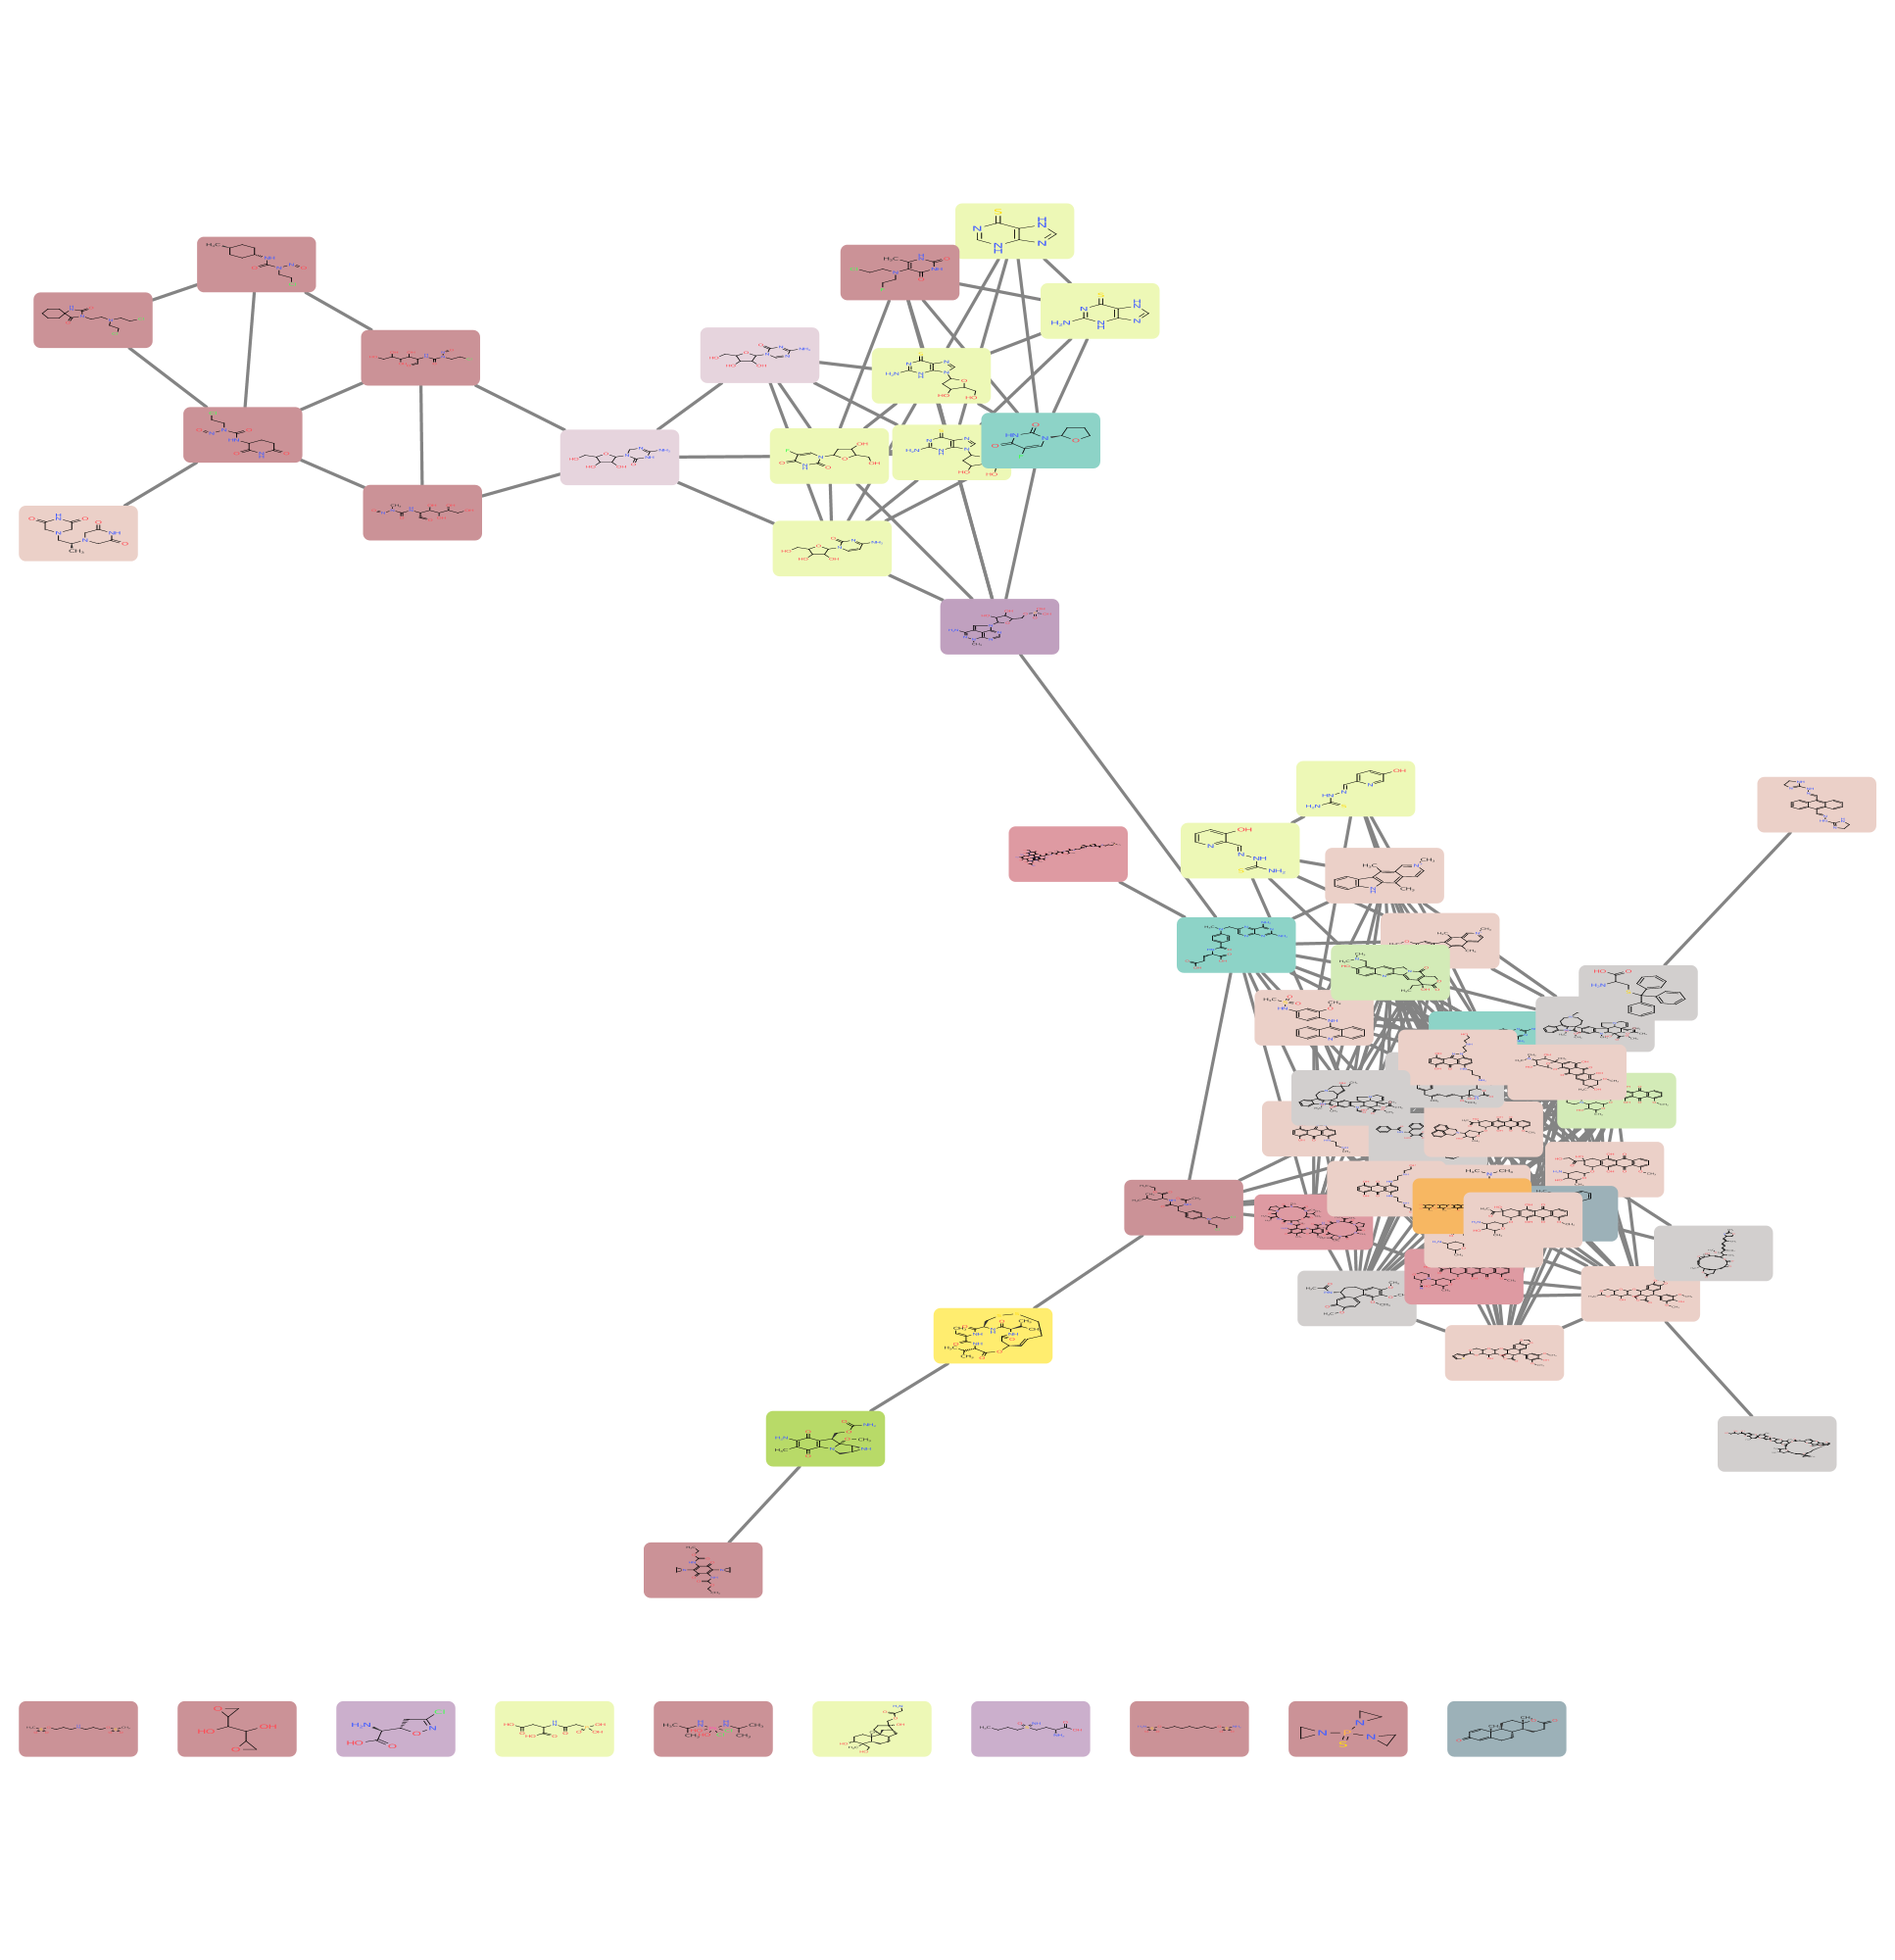
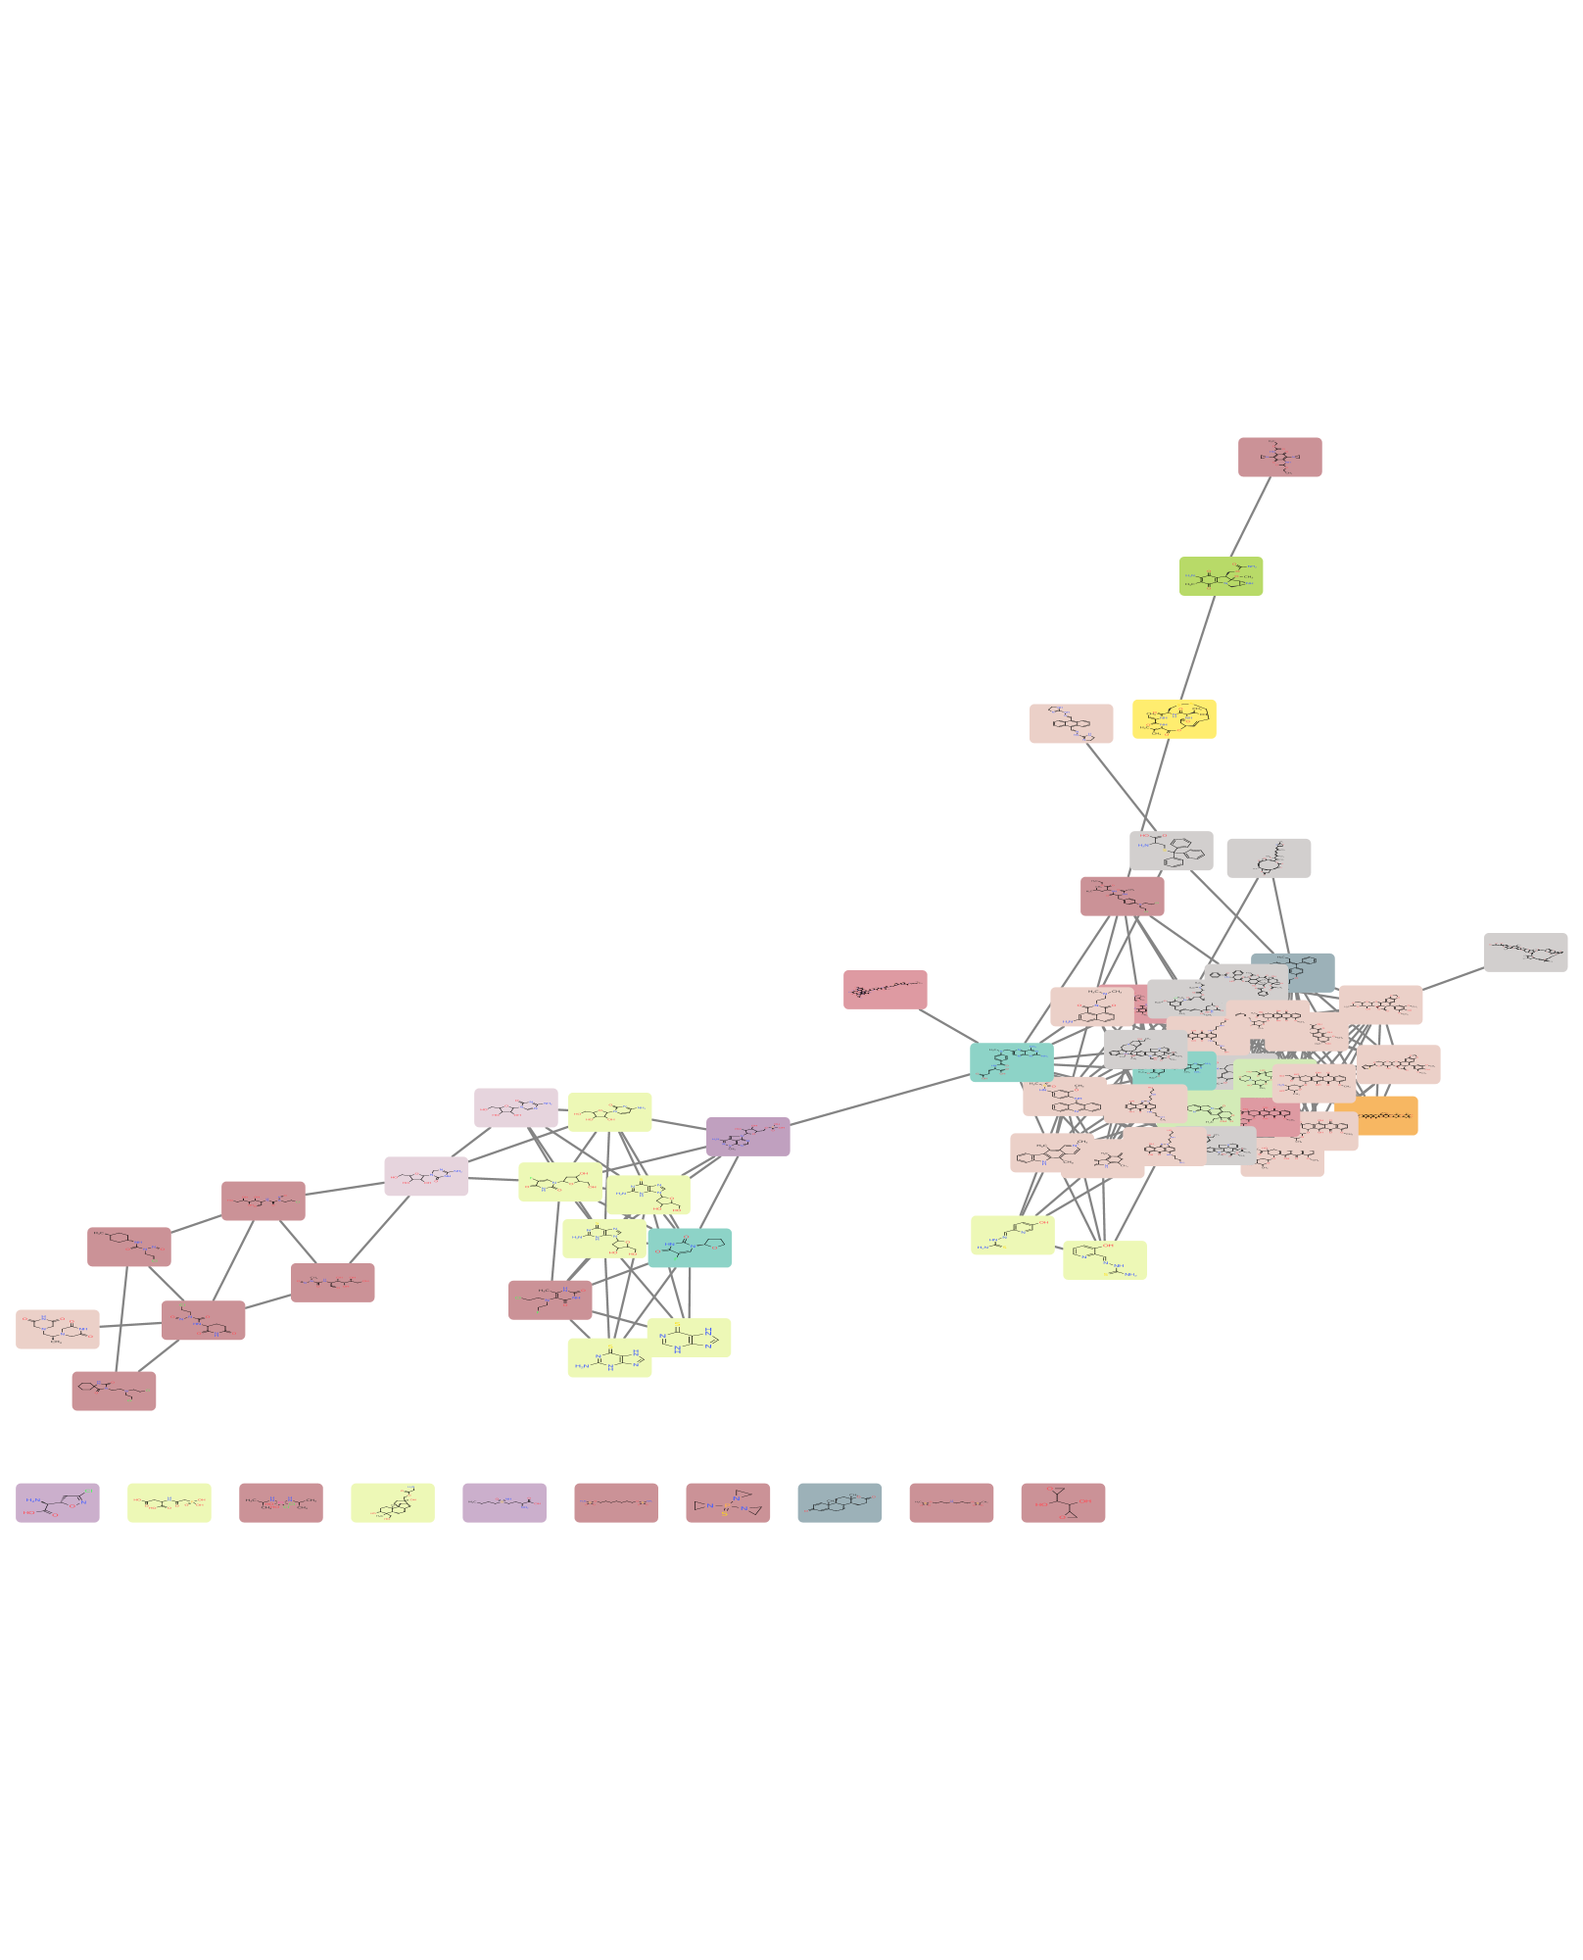
Edited the chemviz vignette to have names instead of numbers on the nodes.

diff --git a/chemviz_vignette.md b/chemviz_vignette.md
@@ -3,18 +3,20 @@ Julia Gustavsen
 August 16, 2016  
 # Introduction
 
-# Required programs: 
+Scientists can have information about chemical compounds and then want a simple way to visualize the chemical structure and also the to understand the chemical similarity of compounds (Tanimoto similarity). This can be done in Cytoscape using the Chemviz plugin
+
+In this vignette we will use the R package rcellminer to generate some data that we will use to look a some drug compounds. Then, in Cytoscape, we will then see how these drugs are chemically related, look at the 2-dimensional structures of these compounds and then colour the compounds by their mechanism of action to see if it is related to their similarity. 
+
+# Required materials: 
 
 - Cytoscape (www.cytoscape.org)
 - Chemviz - plugin for Cytoscape (http://www.cgl.ucsf.edu/cytoscape/chemViz2/index.shtml)
-- Rpackages: RCy3, httr, JSONIO, rcellminer
+- Rpackages: RCy3, httr, JSONIO, rcellminer, RColorBrewer
 
-# Load up the packages
+# Load the packages
 
 ```r
 library(RCy3)
-library(httr)
-library(RJSONIO)
 library(rcellminer)
 library(RColorBrewer)
 source("./functions_to_add_to_RCy3/working_with_namespaces.R")
@@ -28,9 +30,6 @@ df <- getFeatureAnnot(rcellminerData::drugData)[["drug"]]
 ## smiles strings
 ## moa mechanism of action
 
-## could take drugs with stuff in the MOA colum
-x <- df[sample(nrow(df), 100), c("NSC", "NAME", "FDA_STATUS", "SMILES", "MOA")]
-
 moaToCompounds <- getMoaToCompounds()
 Moa_names <- names(moaToCompounds)
 
@@ -40,13 +39,24 @@ df_knownMoaDrugs <- subset(df, MOA %in% Moa_names)
 df_with_knownMoaDrugs <- subset(df_knownMoaDrugs, TOTAL_EXPS > 10)
 ```
 
+For display purposes we will chop off long names after 12 characters. 
+
+
+```r
+long_names <- df_with_knownMoaDrugs$NAME[nchar(df_with_knownMoaDrugs$NAME) > 12] 
+chopped_long_names <- gsub("^(.{12})(.*)$", "\\1", long_names)
+df_with_knownMoaDrugs$NAME[nchar(df_with_knownMoaDrugs$NAME) > 12 ] <- chopped_long_names
+```
+
+
 # Set up connection between R and Cytoscape 
 
 ```r
 # first, delete existing windows to save memory:
 deleteAllWindows(CytoscapeConnection())
 cy <- CytoscapeConnection()
-getCommandsWithinNamespace(cy, "chemviz")
+getCommandsWithinNamespace(cy,
+                           "chemviz")
 ```
 
 ```
@@ -62,11 +72,11 @@ getCommandsWithinNamespace(cy, "chemviz")
 # Format dataframe from RCellMiner to format that can be sent to cytoscape
 
 ```r
-g <- new('graphNEL',
-         nodes = df_with_knownMoaDrugs$NSC,
-         edgemode = 'undirected')
+g <- new("graphNEL",
+         nodes = df_with_knownMoaDrugs$NAME,
+         edgemode = "undirected")
 
-cw <- CytoscapeWindow('vignette_for_chemviz',
+cw <- CytoscapeWindow("vignette_for_chemviz",
                       graph = g,
                       overwrite = TRUE)
 ```
@@ -82,7 +92,7 @@ displayGraph(cw)
 
 ```r
 layoutNetwork(cw,
-              layout.name = 'grid')
+              layout.name = "grid")
 showGraphicsDetails(cw, new.value)
 ```
 
@@ -94,45 +104,45 @@ showGraphicsDetails(cw, new.value)
 ```r
 g <- cw@graph   
 g <- initNodeAttribute(graph = g,
-                       'SMILES',
-                       'char',
+                       "SMILES",
+                       "char",
                        "none")
-nodeData(g, nodes(g), 'SMILES') <- df_with_knownMoaDrugs$SMILES
+nodeData(g, nodes(g), "SMILES") <- df_with_knownMoaDrugs$SMILES
 
 g <- initNodeAttribute(graph = g,
-                       'NAME_from_df',
-                       'char',
+                       "NSC_from_df",
+                       "char",
                        "none")
-nodeData(g, nodes(g), 'NAME_from_df') <- df_with_knownMoaDrugs$NAME
+nodeData(g, nodes(g), "NSC_from_df") <- df_with_knownMoaDrugs$NSC
 
 g <- initNodeAttribute(graph = g,
-                       'MOA',
-                       'char',
+                       "MOA",
+                       "char",
                        "none")
-nodeData(g, nodes(g), 'MOA') <- df_with_knownMoaDrugs$MOA
+nodeData(g, nodes(g), "MOA") <- df_with_knownMoaDrugs$MOA
 ```
 
 
 ```r
 cw <- setGraph(cw,
                g)
-displayGraph(cw)    # cw's graph is sent to Cytoscape
+displayGraph(cw) # cw's graph is sent to Cytoscape
 ```
 
 ```
 ## [1] "label"
 ## [1] "SMILES"
-## [1] "NAME_from_df"
+## [1] "NSC_from_df"
 ## [1] "MOA"
 ```
 
-Network successfully sent to Cytoscape. The node attributes have also been sent. 
-<img src="./nodes_for_chemviz.png" width="1934" />
 
+Network successfully sent to Cytoscape. The node attributes have also been sent. 
+<img src="./nodes_for_chemviz.png" width="1616" />
 
 # Create similarity network
 
-Next based on the chemical properties of each node (which are associated using the SMILES strings (Simplified Molecular Input Line Entry System which are line reprensentations of chemical structures) we will use chemviz to calculate the similarity of each drug based on its chemical properties (using Tanimoto similarity which is a distance-based measure of chemical similarity). 
+Next based on the chemical properties of each node (which are associated using the SMILES strings (Simplified Molecular Input Line Entry System which are line representations of chemical structures) we will use chemviz to calculate the similarity of each drug based on its chemical properties (using Tanimoto similarity which is a distance-based measure of chemical similarity). 
 
 To begin let's look at some of the commands available to use in chemviz:
 
@@ -179,23 +189,7 @@ chemviz_cw <- setCommandProperties(cw,
 ## [1] "Cytoscape window vignette_for_chemviz copy successfully connected to R session."
 ```
 
-```r
-# request.uri <- paste(cw@uri,
-#                      pluginVersion(cw),
-#                      "commands/chemviz",
-#                      as.character(command.name),
-#                      sep = "/")
-# 
-# request.res <- GET(url = request.uri,
-#                     query = properties.list,
-#                     verbose())
-# request.res$url
-# http_status(request.res)
-# request.res$status_code
-```
-
-<img src="./chemviz_similarity_net.png" width="1934" />
-
+<img src="./chemviz_similarity_net.png" width="1616" />
 
 We currently just have the network in the grid format, but now with edges connecting the nodes we can do a layout that can help us visualize the connections.
 
@@ -224,7 +218,7 @@ connectToNewestCyWindow <- function(obj,
   
   ## to get edges request.res$elements$edges
   newest_CyWindow <- existing.CytoscapeWindow(net.name,
-                                     copy.graph.from.cytoscape.to.R = copyToR) ## having problems with edges for now!! so will set to false
+                                     copy.graph.from.cytoscape.to.R = copyToR) 
   return(newest_CyWindow)
 }
 
@@ -238,7 +232,7 @@ layoutNetwork(new_cw, "force-directed")
 ```
 
 
-<img src="./chemviz_similarity_net_layout_fd.png" width="1934" />
+<img src="./chemviz_similarity_net_layout_fd.png" width="1616" />
 
 # Add 2D chemical structures to nodes
 
@@ -283,12 +277,12 @@ setCommandProperties(new_cw,
 
 Now we have all of the chemical structures displayed on the nodes of our network. 
 
-<img src="./chemviz_similarity_net_node_structures.png" width="1934" />
+<img src="./chemviz_similarity_net_node_structures.png" width="1616" />
 
 
 # Colour nodes by mechanism of action (MOA)
 
-The nodes that we are examining have mechanisms of action (moa) associated with them. We can then colour these nodes by their MOA. 
+The nodes that we are examining have mechanisms of action (MOA) associated with them. We can then colour these nodes by their MOA. 
 
 
 ```r
@@ -303,7 +297,7 @@ We have 14 different MOA classes and have used RColorBrewer to generate differen
 
 ```r
 setNodeColorRule(new_cw,
-                 'MOA',
+                 "MOA",
                  MOA_classes,
                  colours_for_MOA_classes,
                  "lookup", 
@@ -316,14 +310,11 @@ setNodeColorRule(new_cw,
 
 ```r
 ## node font looks ugly, let's turn it off for now
-
 setDefaultNodeFontSize(new_cw,
                        0)
 ```
 
-We have coloured the nodes nicely, but we do not know which ones are associated with which classes. To know more about this we will print out the legend from Cytoscape. At the moment there is no automated way to do this so we need to go into Cytoscape, click on the "Style" tab and then click on the little arrow (that has a mouseover text of "Options"). Once the menu opens there you will find a dialogue that lets you export a legend (in gif,svg, or pdf formats). Once exported we will look at the legend beside our new coloured network. 
-
-
+We have coloured the nodes nicely, but we do not know which ones are associated with which classes. To know more about this we will print out the legend from Cytoscape. At the moment there is no automated way to do this so we need to go into Cytoscape, click on the "Style" tab and then click on the little arrow (that has a mouseover text of "Options"). Once the menu opens there you will find a dialogue that lets you export a legend (in gif, svg, or pdf formats). Once exported we will look at the legend beside our new coloured network. 
 
 
 
